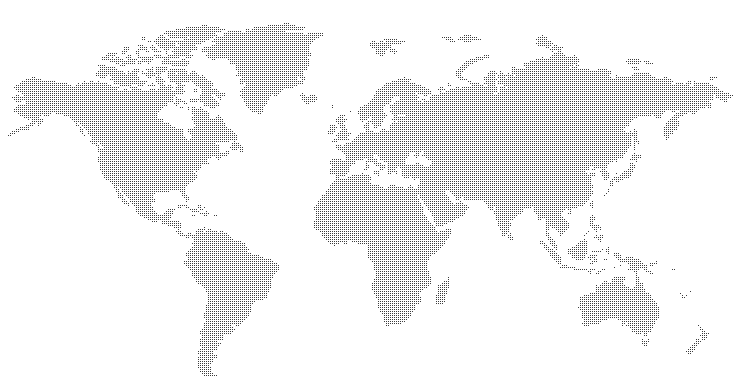
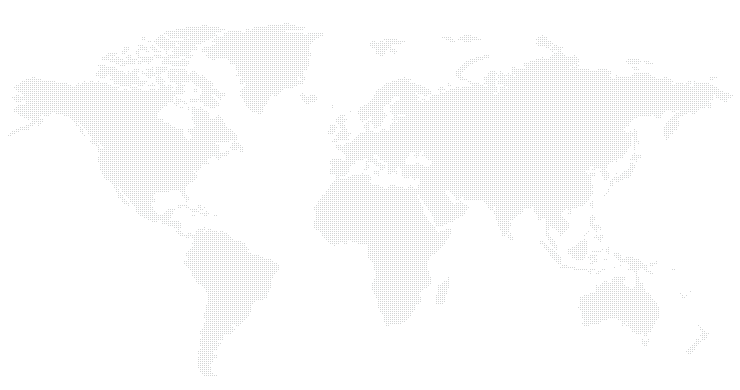
adciona a parte da descrição da seção e a imagem do atlas, bem como muda a cor do atlas

diff --git a/assets/css/style.css b/assets/css/style.css
@@ -151,7 +151,7 @@ section#servicos {
     display: flex;
     align-items: center;
     padding-top: 65px;
-    padding-bottom: 65px;
+    
 }
 
 .section-titulo h1 {
@@ -358,4 +358,49 @@ section#time .time-item-cargo {
     font-size: 15px;
     font-family: raleay-medium;
     text-align: center;
+}
+
+/* LOCALIZACAO */
+section#localizacao {
+    display: flex;
+    justify-content: center;
+    height: 960px;
+    clip-path: polygon(0 0, 50% 22%, 100% 0, 100% 78%, 50% 100%, 0 78%);
+    background: linear-gradient(to right, rgba(0, 0, 0, 0.6), rgba(0, 0, 0, 0.8)), url('../images/hero-03.JPG');
+    background-size: 100% 100%;
+}
+
+section#localizacao .container {
+    margin-top: 212px;
+    height: auto;
+    justify-content: flex-start;
+}
+
+section#localizacao .localizacao-titulo {
+    height: 165px;
+    margin-bottom: 60px;
+}
+
+section#localizacao .localizacao-titulo .section-titulo h1
+ {
+    color: #fafcfe;
+}
+
+section#localizacao .localizacao-titulo .section-titulo .hr-line {
+    background-color: #fafcfe;
+}
+
+section#localizacao .localizacao-desc {
+    padding-right: 300px;
+    padding-left: 300px;
+    font-size: 14px;
+    font-family: raleway-medium;
+    text-align: center;
+    color: #fafcfe;
+}
+
+section#localizacao .localizacao-mapa {
+    height: 390px;
+    display: flex;
+    justify-content: center;
 }

diff --git a/index.php b/index.php
@@ -87,7 +87,7 @@
         <div class="container column">
            <div class="portifolio-titulo">
                <div class="section-titulo column">
-                  <h1>nossos serviços</h1>
+                  <h1>nosso portifólio</h1>
                   <div class="hr-line"></div>
                </div>
            </div>
@@ -118,7 +118,7 @@
          <div class="container column">
            <div class="time-titulo">
                <div class="section-titulo column">
-                  <h1>nossos serviços</h1>
+                  <h1>nosso time</h1>
                   <div class="hr-line"></div>
                   <div class="time-desc">
                       Algumas descricoes para exemplificar Algumas descricoes para exemplificar Algumas descricoes para exemplificar  
@@ -172,6 +172,23 @@
                </div>
            </div>
          </div>
+    </section>
+    <!--localizacao-->
+    <section id="localizacao">
+      <div class="container column">
+        <div class="localizacao-titulo">
+               <div class="section-titulo column">
+                  <h1>nosso portifólio</h1>
+                  <div class="hr-line"></div>
+                  <div class="localizacao-desc">
+                      Algumas descricoes para exemplificar Algumas descricoes para exemplificar Algumas descricoes para exemplificar  
+                  </div>
+               </div>
+        </div>
+        <div class="localizacao-mapa">
+          <img src="assets/images/world-atlas.png">
+        </div>
+      </div>
     </section>
 </body>
 </html>
